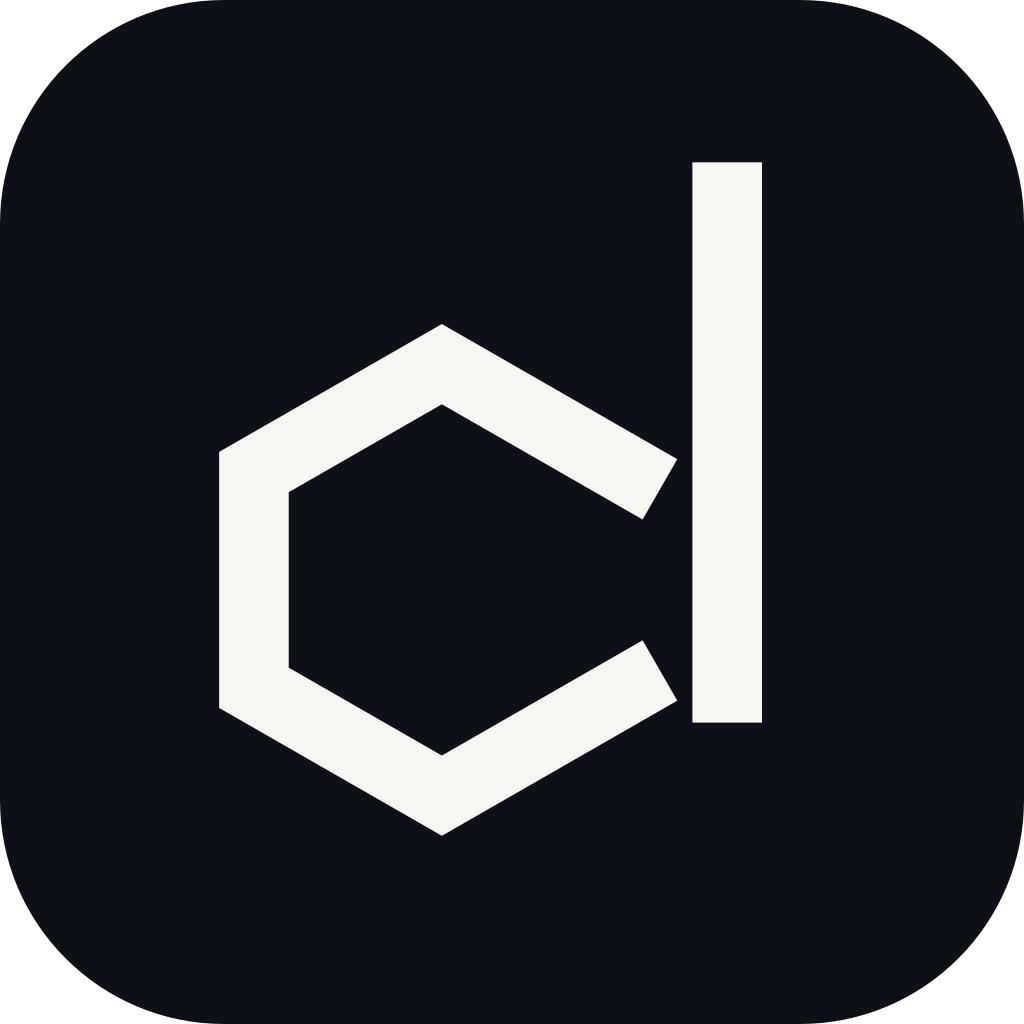
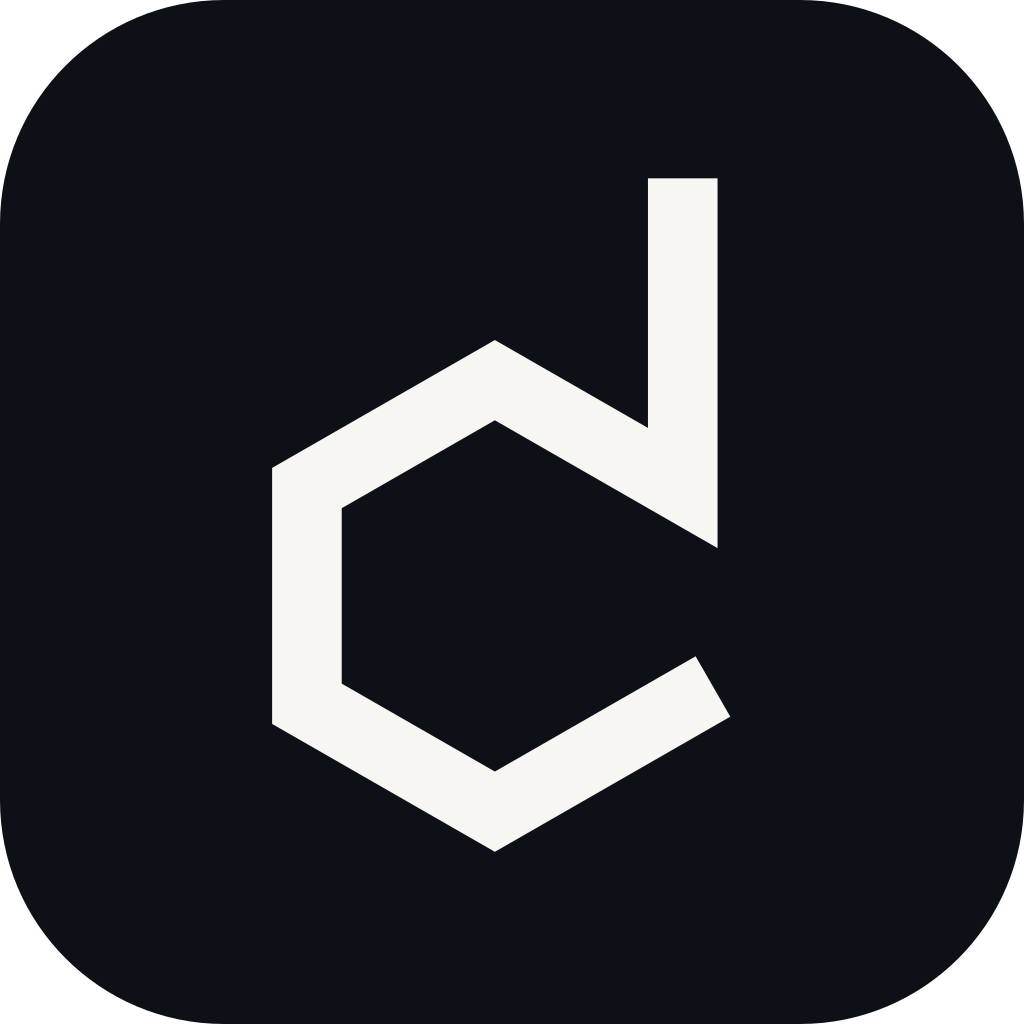
Make the mark a single d.
The ascender now grows out of the c-bowl instead of standing beside it, so the glyph is one letter; every cut, lockup, icon, the nav and the favicon share the new geometry.

Generated with Codebuff

Changed region(s): [[0.1875, 0.1562, 0.75, 0.8438]]

diff --git a/app/brand/page.tsx b/app/brand/page.tsx
@@ -21,15 +21,15 @@ const candidates = [
   },
   {
     id: 'b',
-    name: 'hex cd',
+    name: 'hex d',
     type: 'letterform',
-    idea: 'the bowl is a fully open c, with the d ascender standing beside it.',
+    idea: 'a single d: the bowl is a c-shape and the ascender sits on top of it.',
     why: [
-      'the c is complete rather than suggested: one clean aperture, no broken corner.',
-      'at reading size it resolves as c + d, which is cyber and dach in one character.',
-      'below about 24 px the gap closes and it reads as a plain d, which is the safer failure.',
+      'one letter, not a monogram: the ascender grows out of the c rather than standing beside it.',
+      'the open lower-right aperture is what makes the bowl read as a c inside a d.',
+      'at 16 px the aperture closes and it is simply a d, which is the right failure.',
     ],
-    risk: 'the stem sits deliberately clear of the bowl; close that gap and the c disappears into a normal d.',
+    risk: 'the aperture reads as a notch below about 20 px; the small cut widens it, but it cannot survive favicon scale.',
     art: '/brand/art-b-cd.png',
     svg: '/brand/candidate-b-cd.svg',
     mark: '/brand/candidate-b-cd.svg',

diff --git a/components/Nav.tsx b/components/Nav.tsx
@@ -36,17 +36,15 @@ export default function Nav() {
             aria-hidden="true"
             className="text-[var(--fg)]"
           >
-            <g
-              transform="translate(6,-2)"
+            <path
+              transform="translate(15,-2)"
+              d="M162 185 L108 216 L54 185 L54 123 L108 92 L162 123 V44"
               fill="none"
               stroke="currentColor"
               strokeWidth={20}
               strokeLinejoin="miter"
               strokeLinecap="square"
-            >
-              <path d="M162 123 L108 92 L54 123 L54 185 L108 216 L162 185" />
-              <path d="M190 44 V185" />
-            </g>
+            />
           </svg>
           <span className="text-sm font-semibold tracking-tight">cyber.dach</span>
         </Link>
